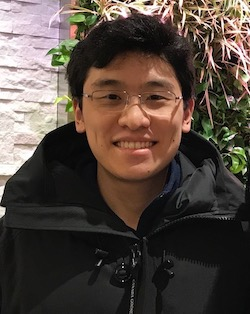
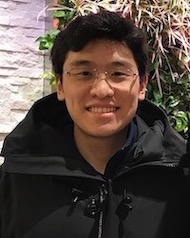
prof photo shrink

diff --git a/docs/_site/about.html b/docs/_site/about.html
@@ -13,7 +13,7 @@
 <meta property="og:url" content="http://localhost:4000/about" />
 <meta property="og:site_name" content="Daniel Ling" />
 <script type="application/ld+json">
-{"url":"http://localhost:4000/about","headline":"About","description":"Welcome to my website! Thanks for visiting.","@type":"WebPage","@context":"https://schema.org"}</script>
+{"headline":"About","url":"http://localhost:4000/about","description":"Welcome to my website! Thanks for visiting.","@type":"WebPage","@context":"https://schema.org"}</script>
 <!-- End Jekyll SEO tag -->
 <link rel="stylesheet" href="/assets/main.css"><link type="application/atom+xml" rel="alternate" href="http://localhost:4000/feed.xml" title="Daniel Ling" /></head>
 <body><header class="site-header" role="banner">
@@ -49,7 +49,7 @@
 
 <p>From 2016 to 2019, I was an investment analyst at Morgan Stanley in NYC. I studied economics as well as mathematics and game theory at Princeton as an undergraduate.</p>
 
-<p>I’ve conducted research in applied mathematics at <a href="https://economics.princeton.edu/">Princeton</a>, <a href="https://www.brown.edu/academics/physics/">Brown Physics</a>, <a href="https://www.brown.edu/academics/chemistry/home">Brown Chemistry</a>, and the <a href="https://www.mskcc.org/research/ski">Sloan Kettering Institute for Cancer Research</a>.</p>
+<p>I’ve conducted research in applied mathematics at <a href="https://economics.princeton.edu/">Princeton University</a>, <a href="https://www.brown.edu/academics/physics/">Brown Physics</a>, <a href="https://www.brown.edu/academics/chemistry/home">Brown Chemistry</a>, and the <a href="https://www.mskcc.org/research/ski">Sloan Kettering Institute for Cancer Research</a>.</p>
 
 <p>Hobbies and interests include soccer, skiing, classical/contemporary piano, film, non-fiction/biography, and 80s music.</p>
 

diff --git a/docs/_site/2020/08/03/welcome-to-jekyll.html b/docs/_site/2020/08/03/welcome-to-jekyll.html
@@ -15,7 +15,7 @@
 <meta property="og:type" content="article" />
 <meta property="article:published_time" content="2020-08-03T20:14:10-04:00" />
 <script type="application/ld+json">
-{"url":"http://localhost:4000/2020/08/03/welcome-to-jekyll","mainEntityOfPage":{"@type":"WebPage","@id":"http://localhost:4000/2020/08/03/welcome-to-jekyll"},"headline":"Welcome to Jekyll!","dateModified":"2020-08-03T20:14:10-04:00","datePublished":"2020-08-03T20:14:10-04:00","description":"You’ll find this post in your _posts directory. Go ahead and edit it and re-build the site to see your changes. You can rebuild the site in many different ways, but the most common way is to run jekyll serve, which launches a web server and auto-regenerates your site when a file is updated.","@type":"BlogPosting","@context":"https://schema.org"}</script>
+{"headline":"Welcome to Jekyll!","dateModified":"2020-08-03T20:14:10-04:00","datePublished":"2020-08-03T20:14:10-04:00","url":"http://localhost:4000/2020/08/03/welcome-to-jekyll","mainEntityOfPage":{"@type":"WebPage","@id":"http://localhost:4000/2020/08/03/welcome-to-jekyll"},"description":"You’ll find this post in your _posts directory. Go ahead and edit it and re-build the site to see your changes. You can rebuild the site in many different ways, but the most common way is to run jekyll serve, which launches a web server and auto-regenerates your site when a file is updated.","@type":"BlogPosting","@context":"https://schema.org"}</script>
 <!-- End Jekyll SEO tag -->
 <link rel="stylesheet" href="/assets/main.css"><link type="application/atom+xml" rel="alternate" href="http://localhost:4000/feed.xml" title="Daniel Ling" /></head>
 <body><header class="site-header" role="banner">

diff --git a/docs/_site/2019/11/02/wilson.html b/docs/_site/2019/11/02/wilson.html
@@ -15,7 +15,7 @@
 <meta property="og:type" content="article" />
 <meta property="article:published_time" content="2019-11-02T00:00:00-04:00" />
 <script type="application/ld+json">
-{"url":"http://localhost:4000/2019/11/02/wilson","mainEntityOfPage":{"@type":"WebPage","@id":"http://localhost:4000/2019/11/02/wilson"},"headline":"Wilson","dateModified":"2019-11-02T00:00:00-04:00","datePublished":"2019-11-02T00:00:00-04:00","description":"There were many fascinating aspects of Wilson’s career and approach that I discovered while reading this book, but one thing stood out that I wanted to discuss briefly. His devotion to his faith.","@type":"BlogPosting","@context":"https://schema.org"}</script>
+{"headline":"Wilson","dateModified":"2019-11-02T00:00:00-04:00","datePublished":"2019-11-02T00:00:00-04:00","url":"http://localhost:4000/2019/11/02/wilson","mainEntityOfPage":{"@type":"WebPage","@id":"http://localhost:4000/2019/11/02/wilson"},"description":"There were many fascinating aspects of Wilson’s career and approach that I discovered while reading this book, but one thing stood out that I wanted to discuss briefly. His devotion to his faith.","@type":"BlogPosting","@context":"https://schema.org"}</script>
 <!-- End Jekyll SEO tag -->
 <link rel="stylesheet" href="/assets/main.css"><link type="application/atom+xml" rel="alternate" href="http://localhost:4000/feed.xml" title="Daniel Ling" /></head>
 <body><header class="site-header" role="banner">

diff --git a/docs/_site/2020/08/23/daniels-digest.html b/docs/_site/2020/08/23/daniels-digest.html
@@ -15,7 +15,7 @@
 <meta property="og:type" content="article" />
 <meta property="article:published_time" content="2020-08-23T00:00:00-04:00" />
 <script type="application/ld+json">
-{"url":"http://localhost:4000/2020/08/23/daniels-digest","mainEntityOfPage":{"@type":"WebPage","@id":"http://localhost:4000/2020/08/23/daniels-digest"},"headline":"Daniel’s Digest","dateModified":"2020-08-23T00:00:00-04:00","datePublished":"2020-08-23T00:00:00-04:00","description":"This is my weekly newsletter where I write about health, productivity, and mindset. I’ll be sharing it here every Sunday.","@type":"BlogPosting","@context":"https://schema.org"}</script>
+{"headline":"Daniel’s Digest","dateModified":"2020-08-23T00:00:00-04:00","datePublished":"2020-08-23T00:00:00-04:00","url":"http://localhost:4000/2020/08/23/daniels-digest","mainEntityOfPage":{"@type":"WebPage","@id":"http://localhost:4000/2020/08/23/daniels-digest"},"description":"This is my weekly newsletter where I write about health, productivity, and mindset. I’ll be sharing it here every Sunday.","@type":"BlogPosting","@context":"https://schema.org"}</script>
 <!-- End Jekyll SEO tag -->
 <link rel="stylesheet" href="/assets/main.css"><link type="application/atom+xml" rel="alternate" href="http://localhost:4000/feed.xml" title="Daniel Ling" /></head>
 <body><header class="site-header" role="banner">

diff --git a/docs/_site/2020/08/10/hello.html b/docs/_site/2020/08/10/hello.html
@@ -15,7 +15,7 @@
 <meta property="og:type" content="article" />
 <meta property="article:published_time" content="2020-08-10T00:00:00-04:00" />
 <script type="application/ld+json">
-{"url":"http://localhost:4000/2020/08/10/hello","mainEntityOfPage":{"@type":"WebPage","@id":"http://localhost:4000/2020/08/10/hello"},"headline":"Hello!","dateModified":"2020-08-10T00:00:00-04:00","datePublished":"2020-08-10T00:00:00-04:00","description":"Hello, World! I’m excited to have built this site with Jekyll. Thanks for visiting.","@type":"BlogPosting","@context":"https://schema.org"}</script>
+{"headline":"Hello!","dateModified":"2020-08-10T00:00:00-04:00","datePublished":"2020-08-10T00:00:00-04:00","url":"http://localhost:4000/2020/08/10/hello","mainEntityOfPage":{"@type":"WebPage","@id":"http://localhost:4000/2020/08/10/hello"},"description":"Hello, World! I’m excited to have built this site with Jekyll. Thanks for visiting.","@type":"BlogPosting","@context":"https://schema.org"}</script>
 <!-- End Jekyll SEO tag -->
 <link rel="stylesheet" href="/assets/main.css"><link type="application/atom+xml" rel="alternate" href="http://localhost:4000/feed.xml" title="Daniel Ling" /></head>
 <body><header class="site-header" role="banner">

diff --git a/docs/_site/2020/08/19/network-effects-in-ai.html b/docs/_site/2020/08/19/network-effects-in-ai.html
@@ -15,7 +15,7 @@
 <meta property="og:type" content="article" />
 <meta property="article:published_time" content="2020-08-19T00:00:00-04:00" />
 <script type="application/ld+json">
-{"url":"http://localhost:4000/2020/08/19/network-effects-in-ai","mainEntityOfPage":{"@type":"WebPage","@id":"http://localhost:4000/2020/08/19/network-effects-in-ai"},"headline":"Network Effects in AI","dateModified":"2020-08-19T00:00:00-04:00","datePublished":"2020-08-19T00:00:00-04:00","description":"Market Landscape and Context","@type":"BlogPosting","@context":"https://schema.org"}</script>
+{"headline":"Network Effects in AI","dateModified":"2020-08-19T00:00:00-04:00","datePublished":"2020-08-19T00:00:00-04:00","url":"http://localhost:4000/2020/08/19/network-effects-in-ai","mainEntityOfPage":{"@type":"WebPage","@id":"http://localhost:4000/2020/08/19/network-effects-in-ai"},"description":"Market Landscape and Context","@type":"BlogPosting","@context":"https://schema.org"}</script>
 <!-- End Jekyll SEO tag -->
 <link rel="stylesheet" href="/assets/main.css"><link type="application/atom+xml" rel="alternate" href="http://localhost:4000/feed.xml" title="Daniel Ling" /></head>
 <body><header class="site-header" role="banner">

diff --git a/docs/_site/danieldelves.html b/docs/_site/danieldelves.html
@@ -13,7 +13,7 @@
 <meta property="og:url" content="http://localhost:4000/danieldelves" />
 <meta property="og:site_name" content="Daniel Ling" />
 <script type="application/ld+json">
-{"url":"http://localhost:4000/danieldelves","headline":"Daniel Delves","description":"Welcome to my website! Thanks for visiting.","@type":"WebPage","@context":"https://schema.org"}</script>
+{"headline":"Daniel Delves","url":"http://localhost:4000/danieldelves","description":"Welcome to my website! Thanks for visiting.","@type":"WebPage","@context":"https://schema.org"}</script>
 <!-- End Jekyll SEO tag -->
 <link rel="stylesheet" href="/assets/main.css"><link type="application/atom+xml" rel="alternate" href="http://localhost:4000/feed.xml" title="Daniel Ling" /></head>
 <body><header class="site-header" role="banner">

diff --git a/docs/_site/publications.html b/docs/_site/publications.html
@@ -13,7 +13,7 @@
 <meta property="og:url" content="http://localhost:4000/publications" />
 <meta property="og:site_name" content="Daniel Ling" />
 <script type="application/ld+json">
-{"url":"http://localhost:4000/publications","headline":"Publications","description":"Welcome to my website! Thanks for visiting.","@type":"WebPage","@context":"https://schema.org"}</script>
+{"headline":"Publications","url":"http://localhost:4000/publications","description":"Welcome to my website! Thanks for visiting.","@type":"WebPage","@context":"https://schema.org"}</script>
 <!-- End Jekyll SEO tag -->
 <link rel="stylesheet" href="/assets/main.css"><link type="application/atom+xml" rel="alternate" href="http://localhost:4000/feed.xml" title="Daniel Ling" /></head>
 <body><header class="site-header" role="banner">

diff --git a/docs/_site/categories.html b/docs/_site/categories.html
@@ -13,7 +13,7 @@
 <meta property="og:url" content="http://localhost:4000/categories" />
 <meta property="og:site_name" content="Daniel Ling" />
 <script type="application/ld+json">
-{"url":"http://localhost:4000/categories","headline":"Categories","description":"Welcome to my website! Thanks for visiting.","@type":"WebPage","@context":"https://schema.org"}</script>
+{"headline":"Categories","url":"http://localhost:4000/categories","description":"Welcome to my website! Thanks for visiting.","@type":"WebPage","@context":"https://schema.org"}</script>
 <!-- End Jekyll SEO tag -->
 <link rel="stylesheet" href="/assets/main.css"><link type="application/atom+xml" rel="alternate" href="http://localhost:4000/feed.xml" title="Daniel Ling" /></head>
 <body><header class="site-header" role="banner">

diff --git a/docs/_site/index.html b/docs/_site/index.html
@@ -13,7 +13,7 @@
 <meta property="og:url" content="http://localhost:4000/" />
 <meta property="og:site_name" content="Daniel Ling" />
 <script type="application/ld+json">
-{"url":"http://localhost:4000/","name":"Daniel Ling","headline":"Home","description":"Welcome to my website! Thanks for visiting.","@type":"WebSite","@context":"https://schema.org"}</script>
+{"headline":"Home","url":"http://localhost:4000/","name":"Daniel Ling","description":"Welcome to my website! Thanks for visiting.","@type":"WebSite","@context":"https://schema.org"}</script>
 <!-- End Jekyll SEO tag -->
 <link rel="stylesheet" href="/assets/main.css"><link type="application/atom+xml" rel="alternate" href="http://localhost:4000/feed.xml" title="Daniel Ling" /></head>
 <body><header class="site-header" role="banner">

diff --git a/docs/_site/404.html b/docs/_site/404.html
@@ -13,7 +13,7 @@
 <meta property="og:url" content="http://localhost:4000/404.html" />
 <meta property="og:site_name" content="Daniel Ling" />
 <script type="application/ld+json">
-{"url":"http://localhost:4000/404.html","headline":"Daniel Ling","description":"Welcome to my website! Thanks for visiting.","@type":"WebPage","@context":"https://schema.org"}</script>
+{"headline":"Daniel Ling","url":"http://localhost:4000/404.html","description":"Welcome to my website! Thanks for visiting.","@type":"WebPage","@context":"https://schema.org"}</script>
 <!-- End Jekyll SEO tag -->
 <link rel="stylesheet" href="/assets/main.css"><link type="application/atom+xml" rel="alternate" href="http://localhost:4000/feed.xml" title="Daniel Ling" /></head>
 <body><header class="site-header" role="banner">

diff --git a/docs/_site/other.html b/docs/_site/other.html
@@ -13,7 +13,7 @@
 <meta property="og:url" content="http://localhost:4000/other" />
 <meta property="og:site_name" content="Daniel Ling" />
 <script type="application/ld+json">
-{"url":"http://localhost:4000/other","headline":"Other","description":"Welcome to my website! Thanks for visiting.","@type":"WebPage","@context":"https://schema.org"}</script>
+{"headline":"Other","url":"http://localhost:4000/other","description":"Welcome to my website! Thanks for visiting.","@type":"WebPage","@context":"https://schema.org"}</script>
 <!-- End Jekyll SEO tag -->
 <link rel="stylesheet" href="/assets/main.css"><link type="application/atom+xml" rel="alternate" href="http://localhost:4000/feed.xml" title="Daniel Ling" /></head>
 <body><header class="site-header" role="banner">
